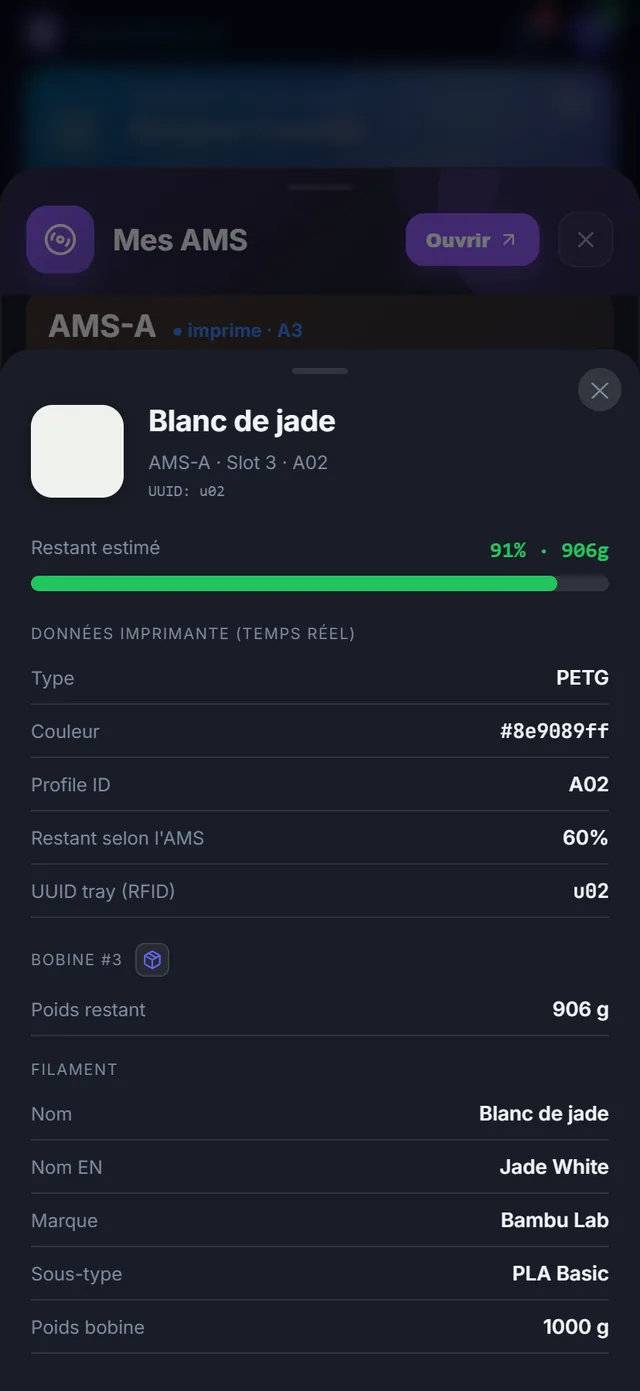
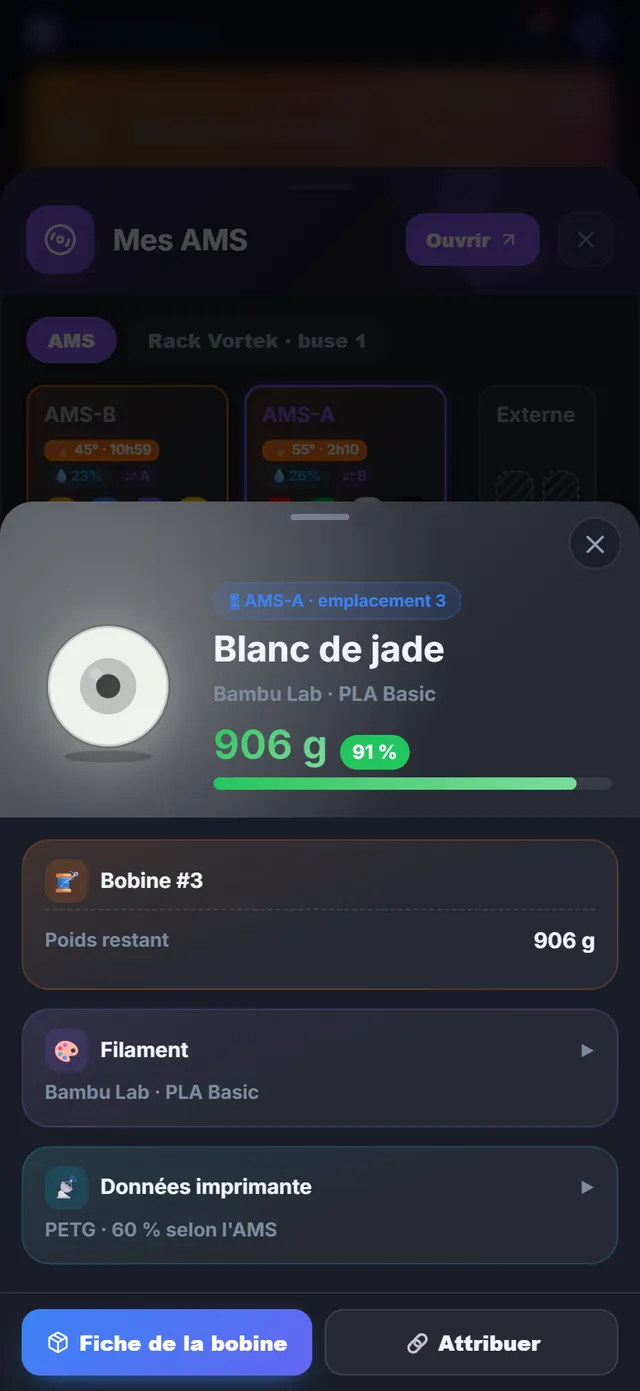
AMS : nouvelle fiche d'un emplacement (bobine en vedette, restant en grand, cartes Bobine, Filament et Données imprimante repliables)
- en-tête : la bobine à la couleur du filament, emplacement, détection et séchage en pastilles
- Fiche de la bobine et Attribuer / Mapper en bas
- la ligne interne « Tray AMS » retirée
- guide et capture mis à jour

diff --git a/frontend/src/components/AMSSection.jsx b/frontend/src/components/AMSSection.jsx
@@ -9,6 +9,7 @@ import SpoolSVG from "./SpoolSVG";
 import { EXT_AMS_ID, amsName, slotLabel, isExternal, trayPct } from "../utils/ams";
 import AdminOnly from "./AdminOnly";
 import { showAlert } from "../utils/dialog";
+import { FSheet, FCard, FRow, fChip, fBtn, fGrad } from "./FicheKit";
 
 // ── Helpers ────────────────────────────────────────────────────────────────
 // Convertit un hex 6 ou 8 chars (avec ou sans #) en valeur CSS utilisable.
@@ -704,67 +705,66 @@ function TrayBottomSheet({ tray, amsId, amsLabel, slotNo, onClose }) {
   const isEmpty = tray.empty || !tray.filament_type;
   const [mapOpen, setMapOpen] = React.useState(false);
 
-  const Row = ({ label, value, mono, accent }) => (value == null || value === "") ? null : (
-    <div style={{ display:"flex", justifyContent:"space-between", alignItems:"baseline",
-      padding:"7px 0", borderBottom:"1px solid var(--border)" }}>
-      <span style={{ fontSize:12, color:"var(--muted)", flexShrink:0 }}>{label}</span>
-      <span style={{ fontSize:13, fontWeight:600, color: accent || "var(--text)",
-        fontFamily: mono ? "JetBrains Mono,monospace" : "inherit",
-        textAlign:"right", marginLeft:12 }}>{value}</span>
-    </div>
-  );
+  const Row = ({ label, value, mono, accent }) => <FRow l={label} v={value} vc={accent} mono={mono}/>;
+  const [foldOpen, setFoldOpen] = React.useState({});      // cartes repliees a l'ouverture
+  const fold = k => ({ fold: true, open: !!foldOpen[k], onToggle: () => setFoldOpen(o => ({ ...o, [k]: !o[k] })) });
+  // la couleur de l'emplacement, pour l'en-tete (une couleur tres claire garde un gris pour la teinte)
+  const cols = isEmpty ? (tray.drying_spool ? parseColors({}, tray.drying_spool) : null) : parseColors(tray, info);
+  const main = (cols && cols[0]) || "#94a3b8";
+  const tint = /^#?f[0-9a-f]f[0-9a-f]f[0-9a-f]/i.test(String(main)) || /^#?(ff|fe|fd|fc|fb|fa)(ff|fe|fd|fc|fb|fa)/i.test(String(main)) ? "#94a3b8" : main;
+  const gauge = pct < 20 ? "#ef4444" : pct < 40 ? "#f59e0b" : "#22c55e";
+  const name = isEmpty ? (tray.drying_spool ? (tray.drying_spool.translated_name || tray.drying_spool.name) : "Emplacement vide")
+    : (info?.translated_name || info?.name || tray.filament_type || "Slot vide");
 
   return (
     <>
-    <div onClick={onClose} style={{ position:"fixed", inset:0, background:"rgba(0,0,0,0.55)",
-      zIndex:1000, display:"flex", alignItems:"flex-end", justifyContent:"center" }}>
-      <div onClick={e=>e.stopPropagation()}
-        className="sheet-inner" className="sheet-inner" style={{ background:"var(--sheet-bg)", borderRadius:"20px 20px 0 0",
-          width:"100%", maxWidth:540, maxHeight:"88dvh", overflowY:"auto",
-          paddingBottom:"env(safe-area-inset-bottom,16px)" }}>
-        {/* Handle */}
-        <div style={{ display:"flex", justifyContent:"center", padding:"12px 0 0" }}>
-          <div style={{ width:36, height:4, borderRadius:2, background:"var(--border)" }}/>
-          <button onClick={onClose} style={{ position:"absolute", top:12, right:12, width:28, height:28, borderRadius:"50%", background:"var(--surface2)", border:"none", cursor:"pointer", color:"var(--muted)", fontSize:15, display:"flex", alignItems:"center", justifyContent:"center" }}>✕</button>
-          <button onClick={onClose} style={{ position:"absolute", top:12, right:12, width:28, height:28, borderRadius:"50%", background:"var(--surface2)", border:"none", cursor:"pointer", color:"var(--muted)", fontSize:15, display:"flex", alignItems:"center", justifyContent:"center" }}>✕</button>
-        </div>
-        <div style={{ padding:"16px 20px 24px" }}>
-          {/* En-tête */}
-          <div style={{ display:"flex", alignItems:"center", gap:16, marginBottom:20 }}>
-            <div style={{ width:60, height:60, borderRadius:14, flexShrink:0, overflow:"hidden", position:"relative",
-              boxShadow:"0 2px 12px rgba(0,0,0,0.25), inset 0 0 0 2px var(--border)",
-              ...(isEmpty && tray.drying_spool
-                ? { ...colorBg(parseColors({}, tray.drying_spool), multicolorType({}, tray.drying_spool)), opacity:0.85 }
-                : isEmpty ? { backgroundColor:"var(--border)" }
-                : colorBg(parseColors(tray, info), multicolorType(tray, info))) }}>
-              {/* Bobine posee pour sechage : ses couleurs, hachurees (non inseree). */}
-              {isEmpty && tray.drying_spool && <HatchOverlay radius={14}/>}
-            </div>
-            <div style={{ flex:1, minWidth:0 }}>
-              <p style={{ fontSize:19, fontWeight:800, color:"var(--text)", margin:0,
-                letterSpacing:"-0.01em", overflow:"hidden", textOverflow:"ellipsis", whiteSpace:"nowrap" }}>
-                {info?.translated_name || info?.name || tray.filament_type || "Slot vide"}
-              </p>
-              <p style={{ fontSize:12, color:"var(--muted)", margin:"4px 0 0" }}>
-                {amsLabel} · Slot {slotNo ?? tray.id + 1}
-                {tray.tray_id_name ? ` · ${tray.tray_id_name}` : ""}
-              </p>
-              {tray.uuid && tray.uuid !== "00000000" && (
-                <p style={{ fontSize:10, color:"var(--muted)", margin:"2px 0 0", fontFamily:"monospace" }}>
-                  UUID: {tray.uuid}
-                </p>
-              )}
-            </div>
+    <FSheet onClose={onClose} z={1000} bottom={!isEmpty && (tray.spool_id || (match && tray.match_mode !== "rfid")) ? <>
+      {tray.spool_id && <button onClick={() => setSpoolSheet({ spoolId: tray.spool_id, filamentId: info?.filament_id, hex: info?.color || tray.color })}
+        style={{ ...fBtn, flex: 1, border: "none", color: "#fff", background: "linear-gradient(135deg, #3B82F6, #6366F1)",
+          boxShadow: "0 8px 18px -10px #3B82F6" }}><Package size={15}/> Fiche de la bobine</button>}
+      {/* Tout ce qui n'est pas du RFID peut se tromper : une detection « auto » fausse se corrige ici, et le
+          choix est retenu pour l'emplacement tant que le meme filament y reste. */}
+      {tray.match_mode && tray.match_mode !== "rfid" && <AdminOnly><button onClick={() => setMapOpen(true)}
+        style={{ ...fBtn, flex: 1, minWidth: 0 }}>🔗 {tray.spool_id ? "Attribuer" : "Mapper / Créer"}</button></AdminOnly>}
+    </> : null}>
+      {/* la bobine de l'emplacement en vedette */}
+      <div style={{ position:"relative", overflow:"hidden", padding:"52px 18px 18px", display:"flex", alignItems:"center", gap:16, flexWrap:"wrap",
+        background:`radial-gradient(circle at 18% 45%, ${tint}55, transparent 60%), linear-gradient(135deg, ${tint}26, transparent 70%), var(--surface2)` }}>
+        <span style={{ position:"relative", display:"inline-flex", flexShrink:0, filter:`drop-shadow(0 8px 18px ${tint}66)`, opacity: isEmpty && !tray.drying_spool ? .35 : 1 }}>
+          <SpoolSVG colors={cols || ["#94a3b8"]} size={104} type={isEmpty ? multicolorType({}, tray.drying_spool) : multicolorType(tray, info)}/>
+          {/* Bobine posee pour sechage : hachuree (non inseree). */}
+          {isEmpty && tray.drying_spool && <HatchOverlay radius={52}/>}
+        </span>
+        <div style={{ flex:"1 1 190px", minWidth:0, display:"flex", flexDirection:"column", gap:6 }}>
+          <div style={{ display:"flex", gap:5, flexWrap:"wrap" }}>
+            {fChip(`🎛 ${amsLabel} · emplacement ${slotNo ?? tray.id + 1}`, "#3B82F6")}
+            {match && <span style={{ display:"inline-flex", alignItems:"center", gap:5, padding:"3px 9px", borderRadius:20, fontSize:11, fontWeight:800,
+              color:match.color, background:`${match.color}1f`, border:`1px solid ${match.color}33` }}><MatchIcon mode={tray.match_mode} size={11}/>{match.text}</span>}
+            {info?.needs_drying && fChip("💧 à sécher", DRY_COLOR)}
           </div>
+          <div style={{ fontSize:23, fontWeight:900, color:"var(--text)", lineHeight:1.12, overflowWrap:"anywhere" }}>{name}</div>
+          {!isEmpty && (info?.brand || info?.fila_type || tray.filament_type) && <div style={{ fontSize:13, fontWeight:700, color:"var(--muted)" }}>
+            {[info?.brand, info?.fila_type || tray.filament_type].filter(Boolean).join(" · ")}</div>}
+          {!isEmpty && pct > 0 && <div style={{ display:"flex", flexDirection:"column", gap:5, marginTop:2 }}>
+            <div style={{ display:"flex", alignItems:"baseline", gap:8 }}>
+              <span style={{ fontSize:26, fontWeight:900, lineHeight:1.2, ...fGrad(gauge, `color-mix(in srgb, ${gauge} 60%, #ffffff)`) }}>
+                {info?.remaining_weight_g ? `${info.remaining_weight_g.toFixed(0)} g` : `${pct} %`}</span>
+              {info?.remaining_weight_g ? <span style={{ fontSize:12.5, fontWeight:900, color:"#fff", padding:"2px 8px", borderRadius:20, background:gauge }}>{pct} %</span> : null}
+            </div>
+            <div style={{ height:8, borderRadius:5, background:"color-mix(in srgb, var(--border) 80%, transparent)", overflow:"hidden" }}>
+              <div style={{ height:"100%", width:`${pct}%`, borderRadius:5, transition:"width 0.5s",
+                background:`linear-gradient(90deg, ${gauge}, color-mix(in srgb, ${gauge} 60%, #ffffff))` }}/>
+            </div>
+          </div>}
+        </div>
+      </div>
 
+      <div style={{ padding:"14px 14px 18px", display:"flex", flexDirection:"column", gap:12 }}>
           {isEmpty ? (
             tray.drying_spool ? (
-              <div style={{ textAlign:"center", padding:"18px 0" }}>
-                <p style={{ fontSize:12, color:"var(--muted)", margin:"0 0 4px" }}>Emplacement vide — bobine posée pour séchage</p>
-                <p style={{ fontSize:15, fontWeight:700, color:"#f59e0b", margin:"0 0 2px" }}>
-                  ☀ {tray.drying_spool.translated_name || tray.drying_spool.name}</p>
-                <p style={{ fontSize:11, color:"var(--muted)", margin:"0 0 12px" }}>
-                  {[tray.drying_spool.brand, tray.drying_spool.fila_type || tray.drying_spool.material, `#${tray.drying_spool.id}`,
+              <FCard t="Posée pour séchage" i="☀" c="#F59E0B">
+                <p style={{ fontSize:13, color:"var(--text)", margin:"4px 0 10px", lineHeight:1.45 }}>
+                  Emplacement vide — {[tray.drying_spool.brand, tray.drying_spool.fila_type || tray.drying_spool.material, `#${tray.drying_spool.id}`,
                     tray.drying_spool.remaining_weight_g != null ? `${Math.round(tray.drying_spool.remaining_weight_g)} g restants` : null,
                   ].filter(Boolean).join(" · ")}
                 </p>
@@ -772,99 +772,31 @@ function TrayBottomSheet({ tray, amsId, amsLabel, slotNo, onClose }) {
                     try { await client.delete(`/printer/ams/${amsId}/${tray.id}/drying`); onClose(); }
                     catch (e) { showAlert(e.response?.data?.detail || e.message); }
                   }}
-                  style={{ padding:"7px 14px", borderRadius:10, fontSize:12, fontWeight:700, cursor:"pointer",
-                    background:"var(--surface2)", border:"1px solid var(--border)", color:"var(--text)" }}>
+                  style={{ ...fBtn, alignSelf:"flex-start", padding:"8px 14px", fontSize:13 }}>
                   Retirer de l'emplacement
                 </button></AdminOnly>
-              </div>
+              </FCard>
             ) : (
-              <p style={{ color:"var(--muted)", fontSize:14, textAlign:"center", padding:"24px 0" }}>Slot vide</p>
+              <p style={{ color:"var(--muted)", fontSize:14, fontWeight:700, textAlign:"center", padding:"18px 0" }}>Rien dans cet emplacement.</p>
             )
           ) : (<>
-            {/* Jauge restant */}
-            {pct > 0 && (
-              <div style={{ marginBottom:20 }}>
-                <div style={{ display:"flex", justifyContent:"space-between", marginBottom:6 }}>
-                  <span style={{ fontSize:12, color:"var(--muted)" }}>Restant estimé</span>
-                  <span style={{ fontSize:14, fontWeight:700, fontFamily:"monospace",
-                    color: pct<20?"#ef4444":pct<40?"#f59e0b":"#22c55e" }}>
-                    {pct}%{info?.remaining_weight_g ? ` · ${info.remaining_weight_g.toFixed(0)}g` : ""}
-                  </span>
-                </div>
-                <div style={{ height:10, borderRadius:5, background:"var(--border)", overflow:"hidden" }}>
-                  <div style={{ height:"100%", width:`${pct}%`, borderRadius:5, transition:"width 0.5s",
-                    background: pct<20?"#ef4444":pct<40?"#f59e0b":"#22c55e" }}/>
-                </div>
-              </div>
+            {info?.found_mode && info.found_mode !== tray.match_mode && (
+              <p style={{ fontSize:12, color:"var(--muted)", margin:0 }}>Détection en base : {info.found_mode}</p>
             )}
 
-            {/* Badge détection */}
-            {match && (
-              <div style={{ display:"flex", alignItems:"center", gap:8, marginBottom:16,
-                padding:"9px 12px", borderRadius:10, background:`${match.color}14`,
-                border:`1px solid ${match.color}35` }}>
-                <MatchIcon mode={tray.match_mode} size={14}/>
-                <span style={{ fontSize:12, color:match.color, fontWeight:600 }}>
-                  {match.text}
-                  {info?.found_mode && info.found_mode !== tray.match_mode && (
-                    <span style={{ color:"var(--muted)", fontWeight:400, marginLeft:4 }}>
-                      (DB: {info.found_mode})
-                    </span>
-                  )}
-                </span>
-                {/* Tout ce qui n'est pas du RFID peut se tromper : une detection
-                    « auto » fausse se corrige ici, et le choix est retenu pour
-                    l'emplacement tant que le meme filament y reste. */}
-                {tray.match_mode && tray.match_mode !== "rfid" && (
-                  <AdminOnly><button onClick={() => setMapOpen(true)}
-                    style={{ marginLeft:"auto", padding:"5px 10px", borderRadius:8, fontSize:11,
-                      fontWeight:700, background:"#3b82f6", color:"white", border:"none", cursor:"pointer" }}>
-                    {tray.spool_id ? "Attribuer" : "Mapper / Créer"}
-                  </button></AdminOnly>
-                )}
-              </div>
-            )}
-
-            {/* ── Section MQTT (données temps réel imprimante) ── */}
-            <p style={{ fontSize:10, color:"var(--muted)", textTransform:"uppercase",
-              letterSpacing:"0.08em", margin:"0 0 4px" }}>Données imprimante (temps réel)</p>
-            <Row label="Type"          value={tray.filament_type}/>
-            <Row label="Couleur"       value={(() => { const arr = (info?.colors_array||tray?.colors_array||"").split(",").filter(Boolean); return arr.length > 1 ? arr.map(hexDisplay).filter(Boolean).join(" / ") : color; })()} mono/>
-            <Row label="Profile ID"    value={tray.tray_info_idx || tray.tray_id_name}/>
-            <Row label="Tag UID"       value={tray.tag_uid && !tray.tag_uid.match(/^0+$/) ? tray.tag_uid : null} mono/>
-            <Row label="Restant selon l'AMS" value={tray.remain != null && tray.remain >= 0 ? `${tray.remain}%` : null}/>
-            <Row label="UUID tray (RFID)" value={tray.uuid && !tray.uuid.match(/^0+$/) ? tray.uuid : null} mono/>
-
-            {/* ── Section DB (bobine liée) ── */}
-            <div style={{ display:"flex", alignItems:"center", gap:8, margin:"16px 0 4px" }}>
-              <p style={{ fontSize:10, color:"var(--muted)", textTransform:"uppercase",
-                letterSpacing:"0.08em", margin:0 }}>
-                Bobine{tray.spool_id ? ` #${tray.spool_id}` : " liée en base"}
-              </p>
-              {tray.spool_id && (
-                <button
-                  onClick={() => setSpoolSheet({ spoolId: tray.spool_id, filamentId: info?.filament_id, hex: info?.color || tray.color })}
-                  title="Ouvrir la fiche de la bobine"
-                  style={{ display:"inline-flex", alignItems:"center", justifyContent:"center",
-                    width:22, height:22, borderRadius:6, cursor:"pointer",
-                    background:"var(--surface2)", border:"1px solid var(--border)",
-                    color:"var(--accent, #6366f1)", padding:0, flexShrink:0 }}>
-                  <Package size={13}/>
-                </button>
-              )}
-            </div>
+            {/* ── la bobine liee en base ── */}
+            <FCard t={`Bobine${tray.spool_id ? ` #${tray.spool_id}` : " liée en base"}`} i="🧵" c="#F97316">
             {info ? (<>
               {/* Meme decoupage, memes libelles et meme ordre que la fiche
                   bobine : les deux ecrans decrivent le meme objet, ils doivent
                   se lire pareil. Ici les valeurs ne sont pas editables, c'est
-                  la seule difference -- le bouton en haut ouvre la vraie fiche
+                  la seule difference -- le bouton en bas ouvre la vraie fiche
                   pour cela. */}
               <Row label="Emplacement"     value={info.location}/>
               <Row label="Poids restant"   value={info.remaining_weight_g != null ? `${Math.round(info.remaining_weight_g)} g` : null}/>
               <Row label="Stock du filament" value={info.filament_stock_g != null ? `${fmtStock(info.filament_stock_g)} (toutes bobines)` : null}/>
               <Row label="Prix d'achat"    value={info.price_override ? `${Number(info.price_override).toFixed(2)} €` : null}/>
               <Row label="Tag NFC"         value={info.tag_number} mono/>
-              <Row label="Tray AMS"        value={info.ams_tray}/>
               <Row label="Première util."  value={info.first_used_at?.slice(0,10)}/>
               <Row label="Dernière util."  value={info.last_used_at?.slice(0,10)}/>
               <Row label="Dernier séchage" value={info.needs_drying
@@ -872,11 +804,18 @@ function TrayBottomSheet({ tray, amsId, amsLabel, slotNo, onClose }) {
                 : info.last_dried_at?.slice(0,10)} accent={info.needs_drying ? DRY_COLOR : undefined}/>
               <Row label="Commentaire"     value={info.comment}/>
               <Row label="ID externe"      value={info.external_spool_id} mono/>
-
-              <p style={{ fontSize:10, color:"var(--muted)", textTransform:"uppercase",
-                letterSpacing:"0.08em", margin:"14px 0 4px" }}>
-                Filament{info.filament_id ? ` #${info.filament_id}` : ""}
+            </>) : (
+              <p style={{ fontSize:12.5, color:"#f59e0b", fontWeight:700, margin:"4px 0 2px" }}>
+                {tray.spool_id
+                  ? `Bobine #${tray.spool_id} — données non chargées`
+                  : "Aucune bobine mappée — matching en attente"}
               </p>
+            )}
+            </FCard>
+
+            {info && <FCard t={`Filament${info.filament_id ? ` #${info.filament_id}` : ""}`} i="🎨" c="#8B5CF6" {...fold("fil")}
+              summary={<p style={{ margin:"4px 0 0", fontSize:12.5, fontWeight:700, color:"var(--muted)" }}>
+                {[info.brand, info.material, info.fila_type].filter(Boolean).join(" · ") || "—"}</p>}>
               <Row label="Nom"             value={info.translated_name || info.name}/>
               {info.translated_name && info.name !== info.translated_name &&
                 <Row label="Nom EN"        value={info.name}/>}
@@ -890,37 +829,30 @@ function TrayBottomSheet({ tray, amsId, amsLabel, slotNo, onClose }) {
               <Row label="Poids bobine"    value={info.initial_weight_g ? `${info.initial_weight_g} g` : null}/>
               <Row label="Poids support"   value={info.spool_weight_g ? `${info.spool_weight_g} g` : null}/>
               <Row label="Prix catalogue"  value={info.price ? `${Number(info.price).toFixed(2)} €` : null}/>
-            </>) : (
-              <p style={{ fontSize:12, color:"#f59e0b", fontStyle:"italic", padding:"4px 0" }}>
-                {tray.spool_id
-                  ? `Bobine #${tray.spool_id} — données non chargées`
-                  : "Aucune bobine mappée — matching en attente"}
-              </p>
-            )}
+            </FCard>}
 
             {/* Séchage depuis AMS + données catalogue */}
             {(tray.drying_temp > 0 || tray.spool_info?.filament_material) && (
-              <div style={{ marginTop:14, padding:"10px 14px", borderRadius:10,
-                background:"rgba(245,158,11,0.08)", border:"1px solid rgba(245,158,11,0.25)" }}>
-                <p style={{ fontSize:11, color:"#f59e0b", fontWeight:700, margin:"0 0 4px",
-                  textTransform:"uppercase", letterSpacing:"0.05em" }}>🌡 Séchage</p>
-                {tray.drying_temp > 0 && (
-                  <p style={{ fontSize:12, color:"var(--text)", margin:0 }}>
-                    {tray.drying_temp}°C · {tray.drying_time}h
-                  </p>
-                )}
-                {tray.spool_info?.filament_material && (
-                  <p style={{ fontSize:11, color:"var(--muted)", margin:"4px 0 0" }}>
-                    Matériau : {tray.spool_info.filament_material}
-                    {tray.spool_info.filament_type && ` — ${tray.spool_info.filament_type}`}
-                  </p>
-                )}
-              </div>
+              <FCard t="Séchage" i="🌡" c="#F59E0B">
+                {tray.drying_temp > 0 && <Row label="Réglage" value={`${tray.drying_temp}°C · ${tray.drying_time}h`}/>}
+                {tray.spool_info?.filament_material && <Row label="Matériau" value={`${tray.spool_info.filament_material}${tray.spool_info.filament_type ? ` — ${tray.spool_info.filament_type}` : ""}`}/>}
+              </FCard>
             )}
+
+            {/* ── ce que dit l'imprimante (temps reel), replie ── */}
+            <FCard t="Données imprimante" i="📡" c="#06B6D4" {...fold("mqtt")}
+              summary={<p style={{ margin:"4px 0 0", fontSize:12.5, fontWeight:700, color:"var(--muted)" }}>
+                {[tray.filament_type, tray.remain != null && tray.remain >= 0 ? `${tray.remain} % selon l'AMS` : null].filter(Boolean).join(" · ") || "temps réel"}</p>}>
+              <Row label="Type"          value={tray.filament_type}/>
+              <Row label="Couleur"       value={(() => { const arr = (info?.colors_array||tray?.colors_array||"").split(",").filter(Boolean); return arr.length > 1 ? arr.map(hexDisplay).filter(Boolean).join(" / ") : color; })()} mono/>
+              <Row label="Profile ID"    value={tray.tray_info_idx || tray.tray_id_name}/>
+              <Row label="Tag UID"       value={tray.tag_uid && !tray.tag_uid.match(/^0+$/) ? tray.tag_uid : null} mono/>
+              <Row label="Restant selon l'AMS" value={tray.remain != null && tray.remain >= 0 ? `${tray.remain}%` : null}/>
+              <Row label="UUID tray (RFID)" value={tray.uuid && !tray.uuid.match(/^0+$/) ? tray.uuid : null} mono/>
+            </FCard>
           </>)}
-        </div>
       </div>
-    </div>
+    </FSheet>
     {mapOpen && (
       <MapTraySheet tray={tray} amsId={amsId} onClose={() => setMapOpen(false)} onMapped={() => { setMapOpen(false); onClose(); }}/>
     )}

diff --git a/backend/guide/pages/imprimante.html b/backend/guide/pages/imprimante.html
@@ -123,18 +123,16 @@
   <section id="imprimante-ams-fiche">
     <h3>La fiche d'un emplacement</h3>
     <p>Un panneau monte du bas avec tout ce que l'imprimante et ta base savent de cet emplacement.</p>
-    <figure class="phone"><img src="img/imprimante-emplacement.webp" alt="Fiche de l'emplacement A3 : Blanc de jade, AMS-A · Slot 3, Restant estimé 91 % · 906 g, Données imprimante, Bobine #3, Filament"><figcaption>La fiche d'un emplacement reconnu.</figcaption></figure>
+    <figure class="phone"><img src="img/imprimante-emplacement.webp" alt="Fiche de l'emplacement A3 : la bobine Blanc de jade en vedette, 906 g et 91 %, cartes Bobine, Filament et Données imprimante"><figcaption>La fiche d'un emplacement reconnu.</figcaption></figure>
     <ul>
-      <li><strong>En-tête</strong> : un grand carré à la couleur du filament, le nom de la bobine (« Slot vide » sinon), « AMS-A · Slot 3 · {code Bambu} », et l'identifiant RFID s'il y en a un.</li>
-      <li><strong>Restant estimé</strong> : pourcentage et poids, avec une barre (rouge sous 20 %, orange sous 40 %, verte au-delà).</li>
-      <li><strong>Encadré de détection</strong> (si le filament n'est pas reconnu par sa puce RFID) : « Auto », « Introuvable », « Manuel » ou « Attribuée à la main », avec le bouton <span class="ui">Attribuer</span> ou <span class="ui">Mapper / Créer</span> <span class="admin">admin</span> (voir ci-dessous).</li>
-      <li><strong>DONNÉES IMPRIMANTE (TEMPS RÉEL)</strong> : <span class="ui">Type</span>, <span class="ui">Couleur</span> (code hexadécimal), <span class="ui">Profile ID</span>, <span class="ui">Tag UID</span>, <span class="ui">Restant selon l'AMS</span>, <span class="ui">UUID tray (RFID)</span>.</li>
-      <li><strong>BOBINE #n</strong> : le bouton paquet <span class="ui">Ouvrir la fiche de la bobine</span> mène à sa fiche complète (voir <a href="#filaments-bobines">Les bobines</a>) ; dessous, ce que ta base sait d'elle : emplacement, poids restant, stock total du filament, prix d'achat, tag NFC, dates de première et dernière utilisation, dernier séchage (« · à sécher » en bleu s'il est temps), commentaire…</li>
-      <li><strong>FILAMENT</strong> : nom, nom anglais, marque, matière, sous-type, échantillon, profil, multicolore, poids de la bobine, poids du support, prix catalogue.</li>
-      <li>Sans bobine associée : « Aucune bobine mappée — matching en attente ».</li>
-      <li><strong>🌡 SÉCHAGE</strong> : le réglage de séchage que Bambu associe à ce filament (« 55°C · 8h »).</li>
+      <li><strong>En-tête</strong> : la bobine dessinée à la couleur du filament, sur un fond de sa couleur ; les pastilles « 🎛 AMS-A · emplacement 3 », la détection (« Auto », « Introuvable », « Manuel » ou « Attribuée à la main ») si le filament n'est pas reconnu par sa puce RFID, et « 💧 à sécher » s'il est temps ; le nom de la bobine, « marque · sous-type », puis le restant en grand (le poids et le pourcentage) avec sa barre (rouge sous 20 %, orange sous 40 %, verte au-delà).</li>
+      <li><strong>🧵 Bobine #n</strong> : ce que ta base sait d'elle : emplacement, poids restant, stock total du filament, prix d'achat, tag NFC, dates de première et dernière utilisation, dernier séchage (« · à sécher » en bleu s'il est temps), commentaire… Sans bobine associée : « Aucune bobine mappée — matching en attente ».</li>
+      <li><strong>🎨 Filament #n</strong>, repliée (touche son titre) : nom, nom anglais, marque, matière, sous-type, échantillon, profil, multicolore, poids de la bobine, poids du support, prix catalogue.</li>
+      <li><strong>🌡 Séchage</strong> : le réglage de séchage que Bambu associe à ce filament (« 55°C · 8h »).</li>
+      <li><strong>📡 Données imprimante</strong>, repliée : <span class="ui">Type</span>, <span class="ui">Couleur</span> (code hexadécimal), <span class="ui">Profile ID</span>, <span class="ui">Tag UID</span>, <span class="ui">Restant selon l'AMS</span>, <span class="ui">UUID tray (RFID)</span>.</li>
+      <li><strong>En bas</strong> : <span class="ui">Fiche de la bobine</span> mène à sa fiche complète (voir <a href="#filaments-bobines">Les bobines</a>), et <span class="ui">🔗 Attribuer</span> ou <span class="ui">🔗 Mapper / Créer</span> <span class="admin">admin</span> quand le filament n'est pas reconnu par sa puce (voir ci-dessous).</li>
     </ul>
-    <p>Pour un <strong>emplacement vide</strong> : « Slot vide », ou « Emplacement vide — bobine posée pour séchage » avec le nom de la bobine posée et le bouton <span class="ui">Retirer de l'emplacement</span> <span class="admin">admin</span>.</p>
+    <p>Pour un <strong>emplacement vide</strong> : « Rien dans cet emplacement. », ou une carte « ☀ Posée pour séchage » avec la bobine posée et le bouton <span class="ui">Retirer de l'emplacement</span> <span class="admin">admin</span>.</p>
   </section>
 
   <section id="imprimante-ams-associer">
@@ -142,7 +140,7 @@
     <p>Quand l'AMS contient un filament que l'appli ne relie à aucune bobine de ta base (pas de puce RFID, ou référence inconnue), la fiche de l'emplacement l'indique (« Introuvable », triangle rouge dans le bloc Imprimante) et propose de corriger. Le principe de la reconnaissance est expliqué dans <a href="#filaments-correspondances">Les correspondances</a>.</p>
     <figure class="phone"><img src="img/imprimante-emplacement-introuvable.webp" alt="Fiche de l'emplacement A1 : PLA, encadré rouge Introuvable avec le bouton Mapper / Créer, Aucune bobine mappée — matching en attente"><figcaption>Un emplacement dont le filament est introuvable dans la base.</figcaption></figure>
     <ol>
-      <li>Ouvre la fiche de l'emplacement et touche <span class="ui">Mapper / Créer</span> (ou <span class="ui">Attribuer</span> si une bobine y est déjà liée) <span class="admin">admin</span>.</li>
+      <li>Ouvre la fiche de l'emplacement et touche <span class="ui">🔗 Mapper / Créer</span> en bas (ou <span class="ui">🔗 Attribuer</span> si une bobine y est déjà liée) <span class="admin">admin</span>.</li>
       <li>La fenêtre <span class="ui">Associer une bobine à cet emplacement</span> s'ouvre, avec en sous-titre ce que l'imprimante voit (matière, couleur, profil).</li>
       <li><strong>Choisir une bobine existante</strong> : l'appli propose les bobines de ta base qui correspondent (couleur, nom, marque · matière · poids). Touche <span class="ui">Associer →</span> sur la bonne.</li>
       <li>Ou <strong>Créer</strong> : si le catalogue Bambu connaît la référence, choisis <span class="ui">📦 Depuis le catalogue</span> puis <span class="ui">Importer depuis le catalogue</span> ; sinon <span class="ui">✏ Création libre</span> : renseigne <span class="ui">Nom de la couleur</span>, <span class="ui">Matière (PLA, PETG, ABS…)</span>, <span class="ui">Marque</span> et <span class="ui">Poids total (g)</span> (1000 par défaut), puis <span class="ui">Créer le filament et la bobine</span>.</li>

diff --git a/backend/guide/pages/filaments.html b/backend/guide/pages/filaments.html
@@ -385,7 +385,7 @@
     <p><span class="admin">admin</span> Quand un emplacement est « introuvable », « non identifié » ou mal reconnu, corrige-le depuis l'accueil. L'écran de l'AMS est décrit dans <a href="#imprimante-ams">Imprimante et AMS</a> ; voici les étapes :</p>
     <ol>
       <li>Sur l'accueil, dans la tuile AMS, touche l'emplacement concerné. Sa fiche s'ouvre : restant estimé, badge de détection, données lues par l'imprimante, bobine liée et son filament, températures de séchage recommandées.</li>
-      <li>Touche le bouton bleu <span class="ui">Mapper / Créer</span> (aucune bobine reconnue) ou <span class="ui">Attribuer</span> (une bobine est reconnue, mais pas par sa puce). Il n'apparaît pas quand la bobine est reconnue par RFID : c'est déjà certain.</li>
+      <li>Touche, en bas de la fiche, <span class="ui">🔗 Mapper / Créer</span> (aucune bobine reconnue) ou <span class="ui">🔗 Attribuer</span> (une bobine est reconnue, mais pas par sa puce). Il n'apparaît pas quand la bobine est reconnue par RFID : c'est déjà certain.</li>
       <li>La fenêtre <span class="ui">Associer une bobine à cet emplacement</span> (ou <span class="ui">Attribuer une bobine à cet emplacement</span>) rappelle ce que voit l'AMS (matière, couleur, profil, tag).</li>
       <li>Choisis <span class="ui">Choisir une bobine existante</span> ou <span class="ui">Créer</span>.</li>
     </ol>
